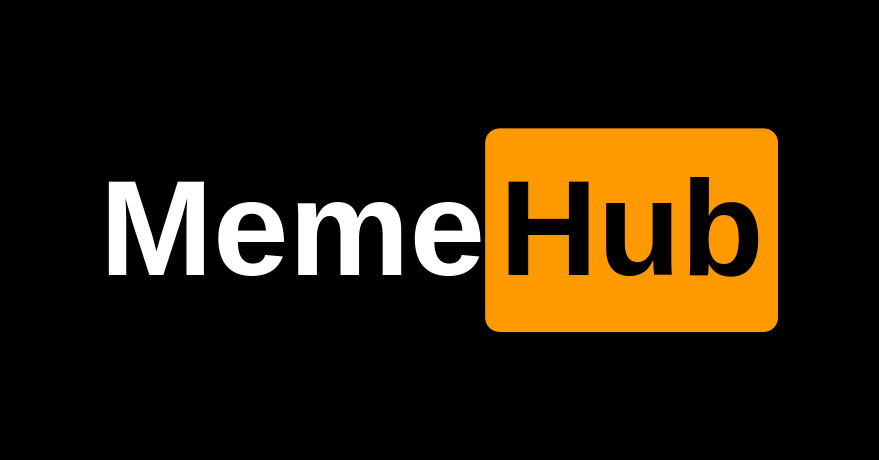
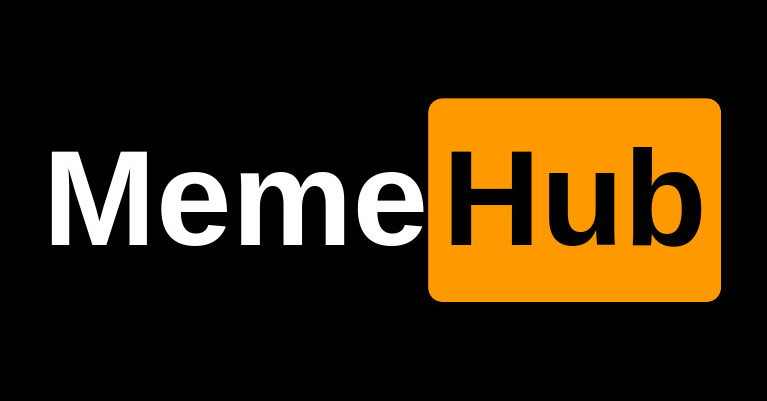
og-image adjust

Changed region(s): [[0.06, 0.2394, 0.9596, 0.7781]]

diff --git a/src/pages/u/[user].tsx b/src/pages/u/[user].tsx
@@ -9,6 +9,7 @@ import { cloudinary } from '../../utils/config';
 import {FiSettings} from 'react-icons/fi';
 import { shortenText } from '../../utils/helpers';
 import { BASE_URL } from '../../utils/config';
+import Link from 'next/link';
 
 const Profile = ({user, session}) => {
 
@@ -121,14 +122,20 @@ const Profile = ({user, session}) => {
           <>
           <h1 className='text-center'>Memes by {username}</h1>
           {memes.map((meme) => { return (
-            <div className='p-1'>
-            <Image
-                  className={`object-contain w-full h-96 ${meme.nsfw ? 'blur-lg' : ''} hover:blur-none`}
-                  src={`${cloudinary}${meme.imageUrl}.png`}
-                  alt="meme"
-                  height={500}
-                  width={500}
-                />
+            <div className='p-1 relative'>
+            <Link href={`/u/meme/${meme.id}`}>  
+              <Image
+                    className={`object-contain w-full h-96 ${meme.nsfw ? 'blur-lg' : ''} hover:blur-none hover:cursor-pointer`}
+                    src={`${cloudinary}${meme.imageUrl}.png`}
+                    alt="meme"
+                    height={500}
+                    width={500}
+                  />
+            </Link>
+            {meme.nsfw ? 
+                    <p className='absolute w-full py-2.5 bottom-10 inset-x-0 text-center text-2xl'>NSFW</p> 
+                    : ''
+                  }
             </div>
             )})}
           </>

diff --git a/src/pages/explore.tsx b/src/pages/explore.tsx
@@ -36,7 +36,7 @@ const Explore: React.FC<Props> = (props) => {
             <div key={meme.id} className='border border-highlight border-x-8'>
               <a className="block">
                 <div className='relative overflow-hidden'>
-                  <Link href={`/user/meme/${meme.id}`}>
+                  <Link href={`/u/meme/${meme.id}`}>
                   <Image
                     className={`object-contain w-full h-96 hover:cursor-pointer ${meme.nsfw ? 'blur-lg' : ''} hover:blur-none`}
                     src={`${cloudinary}${meme.imageUrl}.png`}
@@ -53,7 +53,7 @@ const Explore: React.FC<Props> = (props) => {
                 <div className='flex justify-between p-2'>
                   <div>
                     <h5 className="text-xl font-bold text-center mt-1 text-head">by: 
-                    <Link href={`/user/${meme.author.name}`}>
+                    <Link href={`/u/${meme.author.name}`}>
                       <a className='relative before:absolute before:bg-sky-600 before:bottom-0 before:left-0 before:h-full before:w-full before:origin-bottom before:scale-y-[0.35] hover:before:scale-y-100 before:transition-transform before:ease-in-out before:duration-500'>
                         <span className='relative font-thin'>{meme.author.name}</span>
                       </a>

diff --git a/src/pages/u/meme/[id].tsx b/src/pages/u/meme/[id].tsx
@@ -31,7 +31,7 @@ const Meme = ({meme}: {meme:MemeResponse}) => {
                                 <Image src={`${meme.author.image}`} alt={`${meme.author.name}`} height={50} width={50} />
                             </div>
                         </label>
-                        <Link href={`/user/${meme.author.name}`}>
+                        <Link href={`/u/${meme.author.name}`}>
                             <a className='relative before:absolute before:bg-sky-600 before:bottom-0 before:left-0 before:h-full before:w-full before:origin-bottom before:scale-y-[0.35] hover:before:scale-y-100 before:transition-transform before:ease-in-out before:duration-500 hover:cursor-pointer'>
                                 <span className='relative font-thin text-4xl'>{meme.author.name}</span>
                             </a>

diff --git a/src/pages/_document.tsx b/src/pages/_document.tsx
@@ -16,8 +16,8 @@ export default function Document() {
             <meta name="theme-color" content="#ffa31a" />
             {/* Favicons */}
             {/* OpenGraph MetaData*/}
-            <meta property="og:image:height" content="460" />
-            <meta property="og:image:width" content="879" />
+            <meta property="og:image:height" content="401" />
+            <meta property="og:image:width" content="767" />
             <meta property="og:title" content="MemeHub" />
             <meta property="og:description" content="One Stop For All of Your Meme Needs" />
             <meta property="og:url" content="https://memehub.vercel.app/" />

diff --git a/src/pages/api/meme/likeandunlike.ts b/src/pages/api/meme/likeandunlike.ts
@@ -1,5 +1,6 @@
 import { getSession } from "next-auth/react"
 import type { NextApiRequest, NextApiResponse } from "next"
+import prisma from "../../../lib/prisma"
 
 export default async function handler (req: NextApiRequest, res: NextApiResponse) {
     const session = await getSession({ req })
